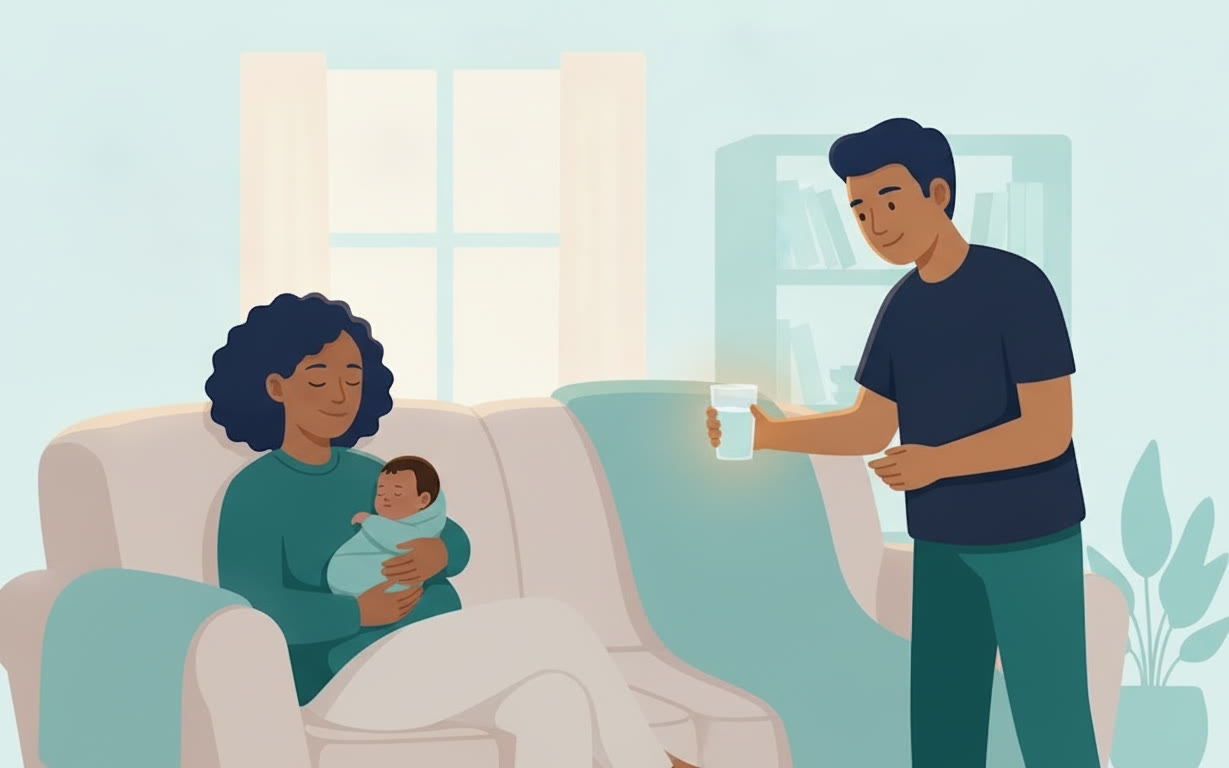
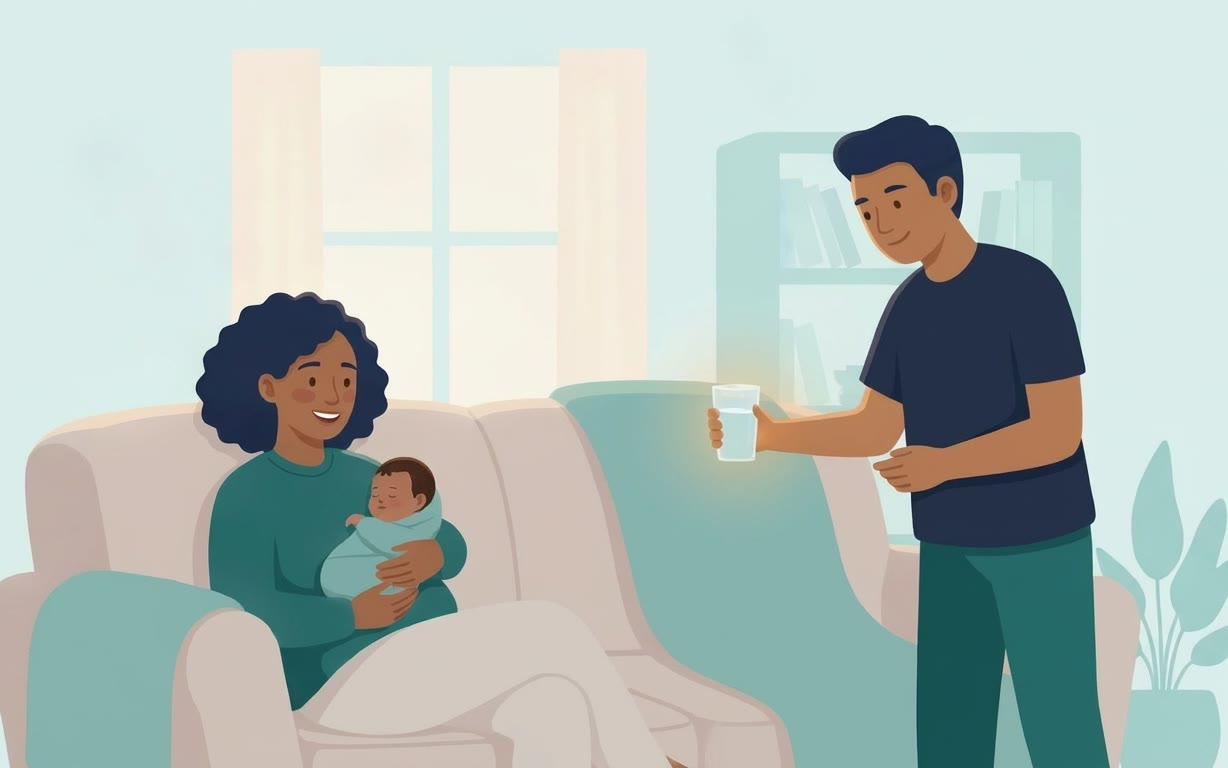
Add lesson 6.1 pictures and redraw 6.2's welcome picture
Three approved pictures for Physical Recovery After Birth. Lesson 6.2's
welcome picture now shows the parent awake while holding the baby on
the couch, and its brief says so.

Claude-Session: https://claude.ai/code/session_01HDaFDrv3tN1KwDb89GXR81

diff --git a/src/content/artwork.ts b/src/content/artwork.ts
@@ -219,6 +219,9 @@ const ARTWORK: Record<string, ImageSourcePropType> = {
   'diapers-baths-crying-and-soothing/sponge-baths': require('../../assets/lessons/diapers-baths-crying-and-soothing/sponge-baths.jpg'),
   'diapers-baths-crying-and-soothing/why-babies-cry': require('../../assets/lessons/diapers-baths-crying-and-soothing/why-babies-cry.jpg'),
   'infant-cpr-and-choking/welcome': require('../../assets/lessons/infant-cpr-and-choking/welcome.jpg'),
+  'physical-recovery-after-birth/welcome': require('../../assets/lessons/physical-recovery-after-birth/welcome.jpg'),
+  'physical-recovery-after-birth/cesarean-healing': require('../../assets/lessons/physical-recovery-after-birth/cesarean-healing.jpg'),
+  'physical-recovery-after-birth/moving-again': require('../../assets/lessons/physical-recovery-after-birth/moving-again.jpg'),
 };
 
 export function artworkFor(lessonId: string, slideId: string): ImageSourcePropType | null {
